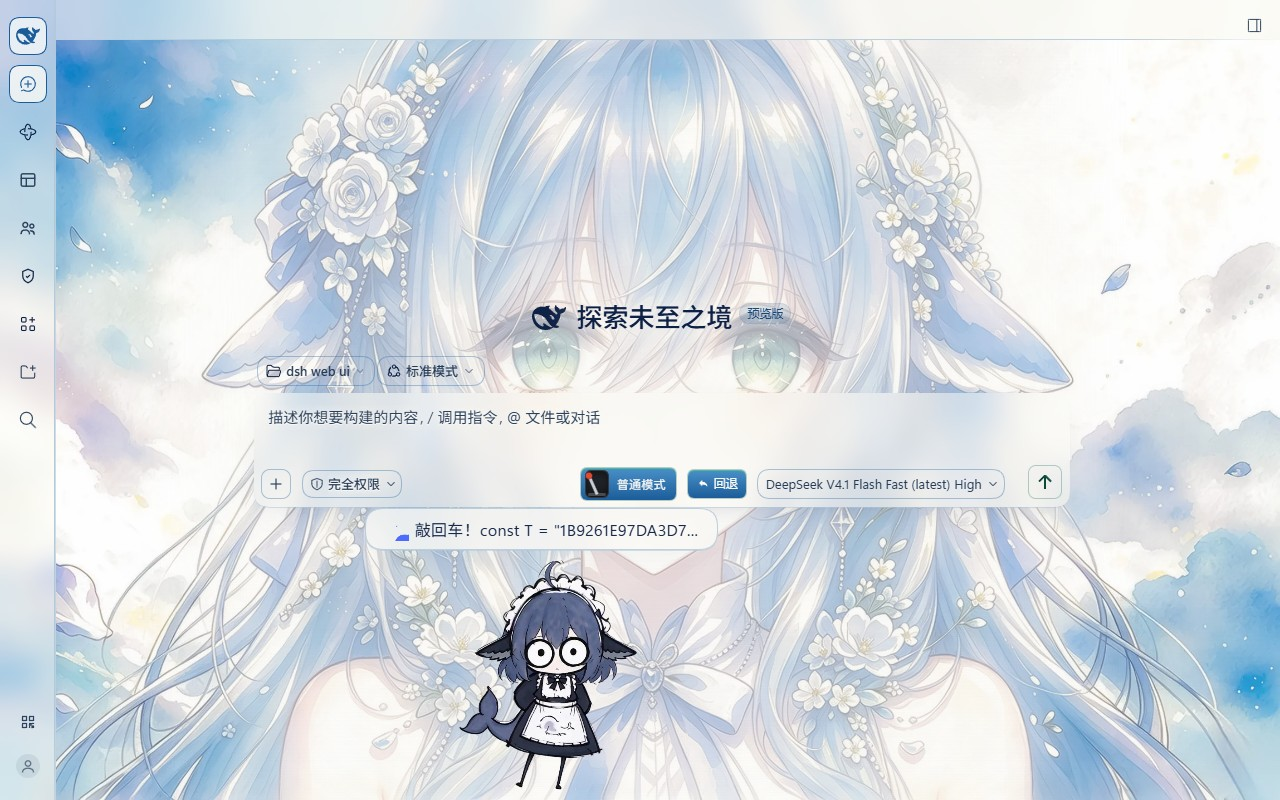
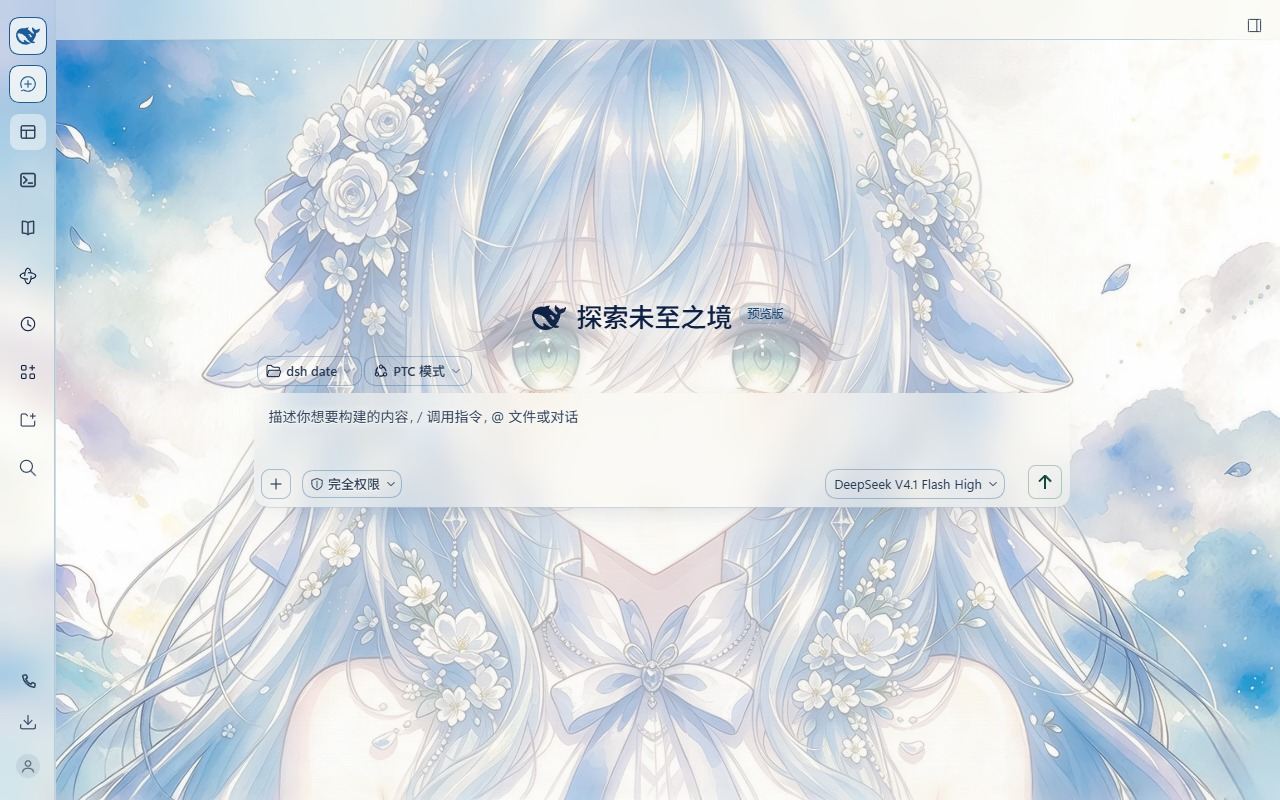
fix(skins): re-shoot whale-watercolour evidence with the pet closed and blur at zero
The 2026-11-05 review found three defects in the session-state captures, and this
commit answers each one on the running shell at the same 1280x800 / DPR 1 viewport:

- the desktop-pet window is gone: both captures were taken with the pet plugin
  disabled, so nothing floats over the answer text, the message toolbar or the
  footer;
- the host's "background blur when there is content" slider is at 0, so the image
  columns beside the interface column are the unblurred artwork and the local
  scrim's edge is visible again, matching what the README already described;
- the store cover is the clean home frame instead of the session frame:
  preview/light.jpg and preview/dark.jpg now carry evidence/whale-watercolour-home.jpg
  byte for byte.

README.zh.md:120 and README.md:136 record the new preview sha256
(9ED3843B...12999D) instead of the stale 32758B56...3429C4, the evidence table names
the actual welcome title, and the parity caption carries the full-frame count
(0 of 1,024,000 sampled pixels differ).

diff --git a/skins/whale-watercolour/README.md b/skins/whale-watercolour/README.md
@@ -134,7 +134,7 @@ set of values under `body[data-ds-dark-theme]`:
 
 Because the skin is light-only, a store's dark tier shows two preview images that
 are **the same bytes** — `preview/light.jpg` and `preview/dark.jpg` share a sha256
-(`32758B56…3429C4`) — and a dark-mode user who switches to it gets the same light
+(`9ED3843B…12999D`) — and a dark-mode user who switches to it gets the same light
 interface. That is the intent, not a missing file.
 
 ## Evidence
@@ -145,17 +145,23 @@ resampling:
 
 | file | what it shows |
 | --- | --- |
-| `whale-watercolour-home.jpg` | the empty-session home page — the "Let's start building" title, the workspace and branch chips and the centred composer over her face, i.e. the composition the 2026-10-28 note named, now under the local scrim |
+| `whale-watercolour-home.jpg` | the empty-session home page — the welcome title (in this capture the shell's Chinese UI, "探索未至之境"), the workspace and preset chips and the centred composer over her face, i.e. the composition the 2026-10-28 note named, now under the local scrim |
 | `whale-watercolour-light.jpg` | a session with a real question and answer, long text sitting on her dark blue hair |
 | `whale-watercolour-dark.jpg` | the light capture, byte for byte — see the note below |
 | `whale-watercolour-theme-parity.png` | three labelled panels: light, dark, and the absolute difference of the two scaled by 16 |
 
-`preview/light.jpg` and `preview/dark.jpg` are byte-identical to their evidence twins.
+`preview/light.jpg` and `preview/dark.jpg` are byte-identical to `evidence/whale-watercolour-home.jpg`:
+the store cover is the clean home frame, not the session frame.
+
+All four images were re-shot after the 2026-11-05 review with **the desktop-pet plugin closed and
+the host's "background blur when there is content" slider at zero**, so no floating pet window sits
+over the answer text or the message toolbar, and the image columns beside the column are the
+unblurred artwork — the scrim's edge is visible.
 
 **The dark entry is the light file itself, and it is declared rather than passed off as a
 second theme.** This skin pins every token to the light palette, so a dark-theme render can
 only come out as the same pixels; the parity panel says so in one labelled line
-(`0 of 196,000 sampled pixels differ`) instead of leaving the reader to guess. The store's
+(`0 of 1,024,000 sampled pixels differ`) instead of leaving the reader to guess. The store's
 dark tier therefore shows one image, which is the intent already recorded in the manifest.
 
 ## Verification

diff --git a/skins/whale-watercolour/README.zh.md b/skins/whale-watercolour/README.zh.md
@@ -117,7 +117,7 @@
 | `color-scheme: dark`（会让所有没有作者色的原生控件变白字） | 1 条 | `body:not(:root)[data-ds-dark-theme] { color-scheme: light }` |
 
 本皮是**浅色专用**，所以商店的暗色档位会显示两张**逐字节相同**的预览图（`preview/light.jpg`
-与 `preview/dark.jpg` 的 sha256 相同，`32758B56…3429C4`），暗色用户切过来得到的也是同一套
+与 `preview/dark.jpg` 的 sha256 相同，`9ED3843B…12999D`），暗色用户切过来得到的也是同一套
 浅色界面 —— 这是刻意为之，不是漏了暗色素材。
 
 ## 证据
@@ -127,16 +127,19 @@
 
 | 文件 | 画面是什么 |
 | --- | --- |
-| `whale-watercolour-home.jpg` | 首页空会话态 —— 「Let's start building」标题、工作区与分支标签、居中输入卡都压在她脸上，正是 2026-10-28 那条记录点名的构图，现在压在局部纱下 |
+| `whale-watercolour-home.jpg` | 首页空会话态 —— 欢迎页标题（本机壳为中文界面「探索未至之境」）、工作区与预设标签、居中输入卡都压在她脸上，正是 2026-10-28 那条记录点名的构图，现在压在局部纱下 |
 | `whale-watercolour-light.jpg` | 一段真实的一问一答，长文本正落在她深蓝的头发上 |
 | `whale-watercolour-dark.jpg` | 与浅色那张逐字节相同 —— 见下 |
 | `whale-watercolour-theme-parity.png` | 三格带标注：浅、暗、两者绝对差 × 16 |
 
-`preview/light.jpg`、`preview/dark.jpg` 与 `evidence/` 下同名文件逐字节相同。
+`preview/light.jpg`、`preview/dark.jpg` 与 `evidence/whale-watercolour-home.jpg` 逐字节相同 —— 商店封面用干净的首页，不用会话态那张。
+
+这四张重拍于 2026-11-05 那条评审之后：**桌宠插件关闭、宿主「有内容时的背景模糊」滑杆归零**，
+所以会话态里两块浮窗不再压住正文与消息操作栏，两侧画面列也是未糊的原样，纱的边界看得见。
 
 **暗色那一条就是浅色那个文件本身，这里明说，不冒充第二次抓拍。** 这套皮把每个 token 都
 钉在浅色上，暗色渲染只可能得到同一份像素；parity 图用一行标注把这件事讲清楚
-（`196,000 个采样像素里 0 个不同`），而不是留给人去猜。商店的暗色档因此显示同一张图，
+（`1,024,000 个采样像素里 0 个不同`），而不是留给人去猜。商店的暗色档因此显示同一张图，
 这正是清单里已经写明的设计。
 
 ## 验收
